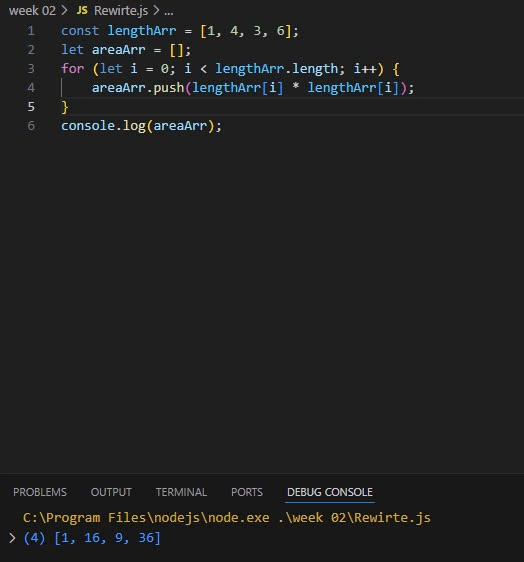
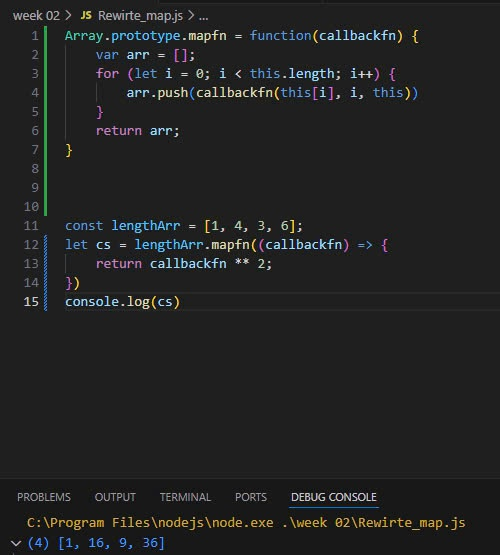
rewirte_map

Changed region(s): [[0.0, 0.0, 0.84, 0.5514], [0.0, 0.8577, 0.93, 1.0]]

diff --git a/week 02/Rewirte_map.js b/week 02/Rewirte_map.js
@@ -1,6 +1,15 @@
-const lengthArr = [1, 4, 3, 6];
-let areaArr = [];
-for (let i = 0; i < lengthArr.length; i++) {
-    areaArr.push(lengthArr[i] * lengthArr[i]);
+Array.prototype.mapfn = function(callbackfn) {
+    var arr = [];
+    for (let i = 0; i < this.length; i++) {
+        arr.push(callbackfn(this[i], i, this))
+    }
+    return arr;
 }
-console.log(areaArr);
+
+
+
+const lengthArr = [1, 4, 3, 6];
+let cs = lengthArr.mapfn((callbackfn) => {
+    return callbackfn ** 2;
+})
+console.log(cs)
